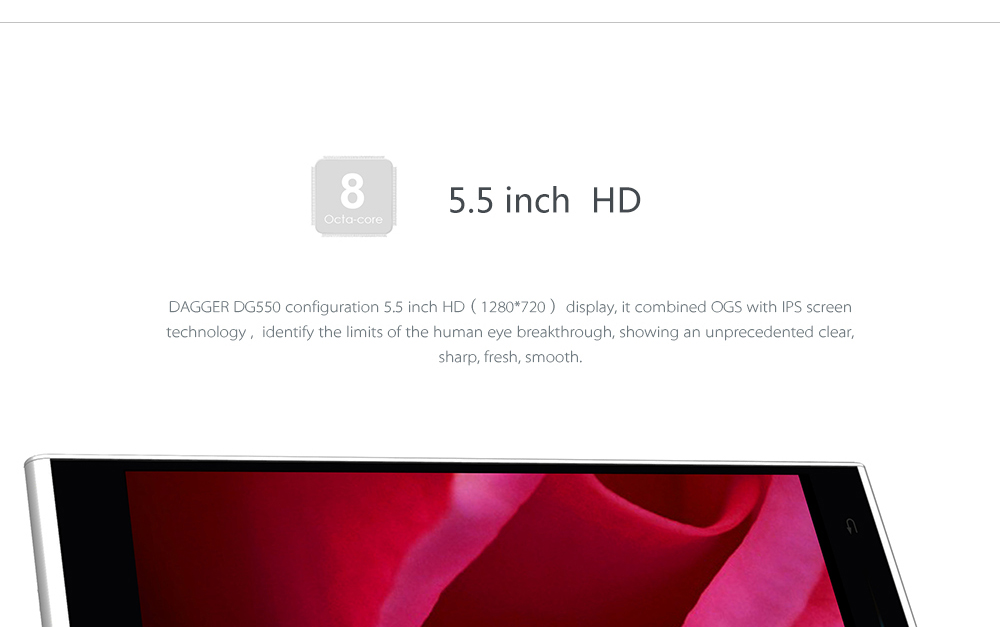
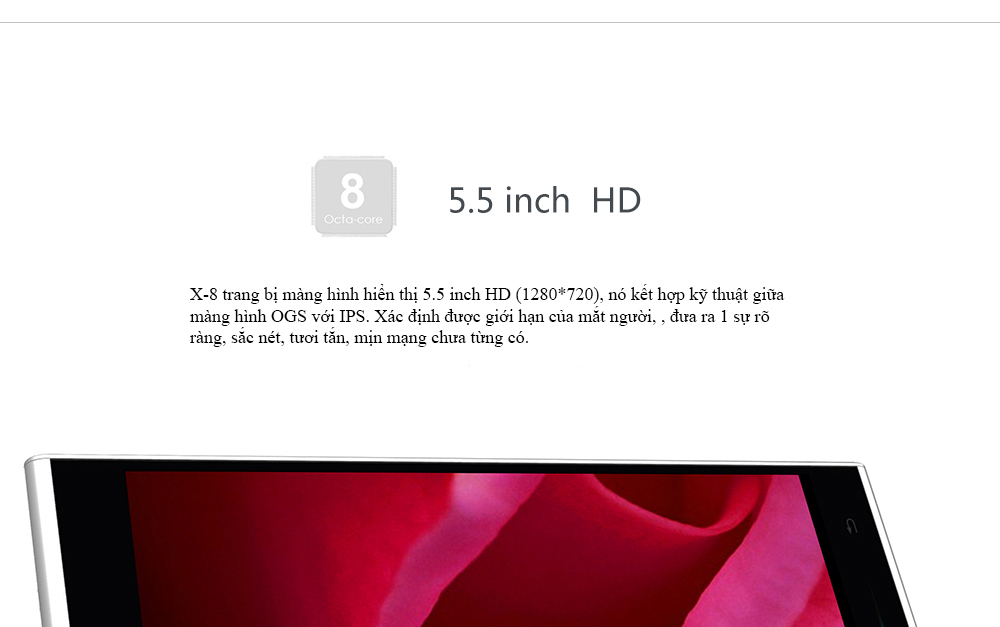
viet hoa 80%

Changed region(s): [[0.155, 0.4545, 0.868, 0.5758]]

diff --git a/webapp/templates/sites/x-6.html b/webapp/templates/sites/x-6.html
@@ -4,46 +4,45 @@
 {% endblock %}
 {% block hi %}
 	<p>
-	<img alt="" src="./static/img/280fe822-4afa-4f5a-ab1a-251eba9fea32.jpg">
-	<img alt="" src="./static/img/d16e9540-6d85-4a50-adcc-f96eccedf4d7.jpg">
-	<img alt="" src="./static/img/5954be80-390b-42e9-a64d-4b4eb4d18aff.jpg">
-	<img alt="" src="./static/img/2a13d172-20ad-47d0-857c-631bb90b47e6.jpg">
-	<img alt="" src="./static/img/974bc398-fb8b-49d4-8b4d-83abcf1c2c35.jpg">
-	<img alt="" src="./static/img/aee79528-e10a-4953-b235-69d40427eb7e.jpg">
-	<img alt="" src="./static/img/ec74b574-c646-4824-9a62-af840e1937ce.jpg">
-	<img alt="" src="./static/img/287c1a7a-a1db-4ec4-be26-412ee9f54404.jpg">
-	<img alt="" src="./static/img/dcdfce35-4963-4cf2-94b9-fb93614ed78d.jpg">
-	<img alt="" src="./static/img/788a8983-79b8-4634-9293-e50beb4e40b0.jpg">
-	<img alt="" src="./static/img/eebf74a5-a6e3-41c1-8921-4132c852208b.jpg">
-	<img alt="" src="./static/img/84490c3e-1697-494f-ac45-869c95747a21.jpg">
-	<img alt="" src="./static/img/965b4898-bea8-41ed-aee0-2bba4a27ab9a.jpg">
-	<img alt="" src="./static/img/b7bac26e-d10d-48d3-b4c1-3c772219f5be.jpg">
-	<img alt="" src="./static/img/b05f13e6-28af-4b78-97ee-8ef4bd86f6f9.jpg">
-	<img alt="" src="./static/img/949f2144-f826-4d00-8c77-5b62a2cbadc9.jpg">
-	<img alt="" src="./static/img/c69bb341-3a4a-4c6d-829d-8af59324d510.jpg">
-	<img alt="" src="./static/img/6a01ccc6-d0c2-475c-b8c9-4514fbb74913.jpg">
-	<img alt="" src="./static/img/89929754-cb52-4fad-8ab0-073c7c90a8f5.jpg">
-	<img alt="" src="./static/img/27f50c3b-7ae9-4b6d-b36c-b07810f4b5d1.jpg">
-	<img alt="" src="./static/img/dfb71405-674e-411f-9d05-0dbc357470f1.jpg">
-	<img alt="" src="./static/img/9cd6bf07-9418-46ca-b60f-b1f18094397f.jpg">
-	<img alt="" src="./static/img/5f7dec96-a833-45bc-a7cc-a5671db0e684.jpg">
-	<img alt="" src="./static/img/bb513dd4-b202-4785-aa1d-12e939b8113d.jpg">
-	<img alt="" src="./static/img/fdf28b8e-43e0-4be5-ae7e-36459cd4edfe.jpg">
-	<img alt="" src="./static/img/fd06a2fe-a57e-41ae-87ee-6edb53aae7d9.jpg">
-	<img alt="" src="./static/img/d393ed2a-5146-4187-bb6f-9e8d7abd6da0.jpg">
-	<img alt="" src="./static/img/260ab054-93ed-4cd8-ab59-9dd8a1a80a12.jpg">
-	<img alt="" src="./static/img/96d15606-fbba-4809-81c6-02e3bfea4395.jpg">
-	<img alt="" src="./static/img/998fe185-2df7-45fe-9cef-32234ab2af71.jpg">
-	<img alt="" src="./static/img/d2ec0e24-d0ef-4de5-a93b-27e906f6f0a7.jpg">
-	<img alt="" src="./static/img/d28e7e94-d2ee-4b93-97be-cf73d85f63aa.jpg">
-	<img alt="" src="./static/img/96ac228d-cb47-4d0b-a960-1a8529b7280e.jpg">
-	<img alt="" src="./static/img/609906d7-6355-40b7-af09-6bd813246cea.jpg">
-	<img alt="" src="./static/img/830d2a4c-b376-4110-9d42-e19d05364345.jpg">
-	<img alt="" src="./static/img/af3b7ae4-5c2a-4daf-9d9f-22a153bdaf10.jpg">
-	<img alt="" src="./static/img/6cb35111-532d-48c3-a8b2-25903eb0938b.jpg">
-	<img alt="" src="./static/img/4f1e9b1a-9242-4aec-8914-dd2c194ce7de.jpg">
-	<img alt="" src="./static/img/78432101-f8c0-4ff6-9497-014366a65b4a.jpg">
-	<img alt="" src="./static/img/a2a2970b-fc3b-4d8c-948e-e95fd56062a8.jpg">
-	<img alt="" src="./static/img/653b986b-fcec-45fb-a590-b85ad5426551.jpg">
+	<img alt="" src="./static/img/x6/1.jpg">
+	<img alt="" src="./static/img/x6/2.jpg">
+	<img alt="" src="./static/img/x6/3.jpg">
+	<img alt="" src="./static/img/x6/4.jpg">
+	<img alt="" src="./static/img/x6/5.jpg">
+	<img alt="" src="./static/img/x6/6.jpg">
+	<img alt="" src="./static/img/x6/7.jpg">
+	<img alt="" src="./static/img/x6/8.jpg">
+	<img alt="" src="./static/img/x6/9.jpg">
+	<img alt="" src="./static/img/x6/10.jpg">
+	<img alt="" src="./static/img/x6/11.jpg">
+	<img alt="" src="./static/img/x6/12.jpg">
+	<img alt="" src="./static/img/x6/13.jpg">
+	<img alt="" src="./static/img/x6/14.jpg">
+	<img alt="" src="./static/img/x6/15.jpg">
+	<img alt="" src="./static/img/x6/16.jpg">
+	<img alt="" src="./static/img/x6/17.jpg">
+	<img alt="" src="./static/img/x6/18.jpg">
+	<img alt="" src="./static/img/x6/19.jpg">
+	<img alt="" src="./static/img/x6/20.jpg">
+	<img alt="" src="./static/img/x6/21.jpg">
+	<img alt="" src="./static/img/x6/22.jpg">
+	<img alt="" src="./static/img/x6/23.jpg">
+	<img alt="" src="./static/img/x6/24.jpg">
+	<img alt="" src="./static/img/x6/25.jpg">
+	<img alt="" src="./static/img/x6/26.jpg">
+	<img alt="" src="./static/img/x6/27.jpg">
+	<img alt="" src="./static/img/x6/28.jpg">
+	<img alt="" src="./static/img/x6/29.jpg">
+	<img alt="" src="./static/img/x6/30.jpg">
+	<img alt="" src="./static/img/x6/31.jpg">
+	<img alt="" src="./static/img/x6/32.jpg">
+	<img alt="" src="./static/img/x6/33.jpg">
+	<img alt="" src="./static/img/x6/34.jpg">
+	<img alt="" src="./static/img/x6/35.jpg">
+	<img alt="" src="./static/img/x6/36.jpg">
+	<img alt="" src="./static/img/x6/37.jpg">
+	<img alt="" src="./static/img/x6/38.jpg">
+	<img alt="" src="./static/img/x6/39.jpg">
+	<img alt="" src="./static/img/x6/40.jpg">
 	</p>
 {% endblock %}

diff --git a/webapp/templates/sites/index.html b/webapp/templates/sites/index.html
@@ -5,72 +5,49 @@
 {% block slides %}
 	<ul class="example-orbit" data-orbit >
 		<li>
-			<img src="./static/img/8x/1.jpg" alt="slide 1" />
+			<a href="{{ url_for('home.x8') }}"><img src="./static/img/8x/1.jpg" alt="slide 1" /></a>
 			<div class="orbit-caption">
-				Slide 1
+				<a href="{{ url_for('home.x8') }}" style="color:white; font-size:25px;">X-8 Mobile Tot Nhat</a>
 			</div>
 		</li>
 		<li>
-			<img src="./static/img/8x/1.jpg" alt="slide 2" />
+			<a href="{{ url_for('home.x4') }}"><img src="./static/img/8x/1.jpg" alt="slide 1" /></a>
 			<div class="orbit-caption">
-				Slide 2
+				<a href="{{ url_for('home.x4') }}" style="color:white; font-size:25px;">X-4 Mobile Tot Nhat</a>
 			</div>
 		</li>
 		<li>
-			<img src="./static/img/8x/1.jpg" alt="slide 3" />
+			<a href="{{ url_for('home.x6') }}"><img src="./static/img/8x/1.jpg" alt="slide 1" /></a>
 			<div class="orbit-caption">
-				Slide 3
+				<a href="{{ url_for('home.x6') }}" style="color:white; font-size:25px;">X-6 Mobile Tot Nhat</a>
 			</div>
 		</li>
 	</ul>
 {% endblock %}
 {% block khung %}
+	<!--
 	<div class="row">
-		<div class="small-6 medium-3 large-3 columns">
-			<a href="" title="">
-				<img src="./static/img/220x300.png" alt="">
-			</a>
-		</div>
-		<div class="small-6 medium-3 large-3 columns">
-			<a href="" title="">
-				<img src="./static/img/220x300.png" alt="">
-			</a>
-		</div>
-		<div class="small-6 medium-3 large-3 columns">
-			<a href="" title="">
-				<img src="./static/img/220x300.png" alt="">
-			</a>
-		</div>
-		<div class="small-6 medium-3 large-3 columns">
-			<a href="" title="">
-				<img src="./static/img/220x300.png" alt="">
-			</a>
-		</div>
-	</div>
-	<div class="clearfix" style="height:15px; width:100%;"></div>
-	<div class="row">
-		<div class="small-6 medium-3 large-3 columns">
-			<a href="" title="">
-				<img src="./static/img/220x300.png" alt="">
-			</a>
-		</div>
-		<div class="small-6 medium-3 large-3 columns">
-			<a href="" title="">
-				<img src="./static/img/220x300.png" alt="">
-			</a>
-		</div>
-		<div class="small-6 medium-3 large-3 columns">
-			<a href="" title="">
-				<img src="./static/img/220x300.png" alt="">
-			</a>
-		</div>
-		<div class="small-6 medium-3 large-3 columns">
-			<a href="" title="">
-				<img src="./static/img/220x300.png" alt="">
-			</a>
-		</div>
+							<div class="small-6 medium-3 large-3 columns">
+													<a href="" title="">
+																			<img src="./static/img/220x300.png" alt="">
+													</a>
+							</div>
+							<div class="small-6 medium-3 large-3 columns">
+													<a href="" title="">
+																			<img src="./static/img/220x300.png" alt="">
+													</a>
+							</div>
+							<div class="small-6 medium-3 large-3 columns">
+													<a href="" title="">
+																			<img src="./static/img/220x300.png" alt="">
+													</a>
+							</div>
+							<div class="small-6 medium-3 large-3 columns">
+													<a href="" title="">
+																			<img src="./static/img/220x300.png" alt="">
+													</a>
+		</div>-->
 	</div>
 {% endblock %}
 {% block content %}
-
 {% endblock %}

diff --git a/webapp/templates/layout.html b/webapp/templates/layout.html
@@ -378,7 +378,6 @@
         <p>- Bao gồm cài đặt sửa chữa các lỗi phần mềm và các sự cố nhỏ (Không bao gồm thay thế các thiết bị)</p>
         <h5 style="color:blue;">III. CÁC LƯU Ý QUAN TRỌNG</h5>
         <p>- Sản phẩm của bạn là một thiết bị điện tử phức tạp ,có thể có màn hình độ chính xác cao ,ống kính máy ảnh và các bộ phận khác có thể bị hư hỏng ,trầy xước nếu không cẩn thận.Tất cả thông tin về bảo hành ,tính năng và đặc điểm của sản phẩm có thể thay đổi mà không cần thông báo trước.</p>
-
     </div>
     <div class="row" style="padding-top:15px;">
         <div class="row">

diff --git a/webapp/templates/sites/x-4.html b/webapp/templates/sites/x-4.html
@@ -13,7 +13,6 @@
 		<img alt="" src="./static/img/4x/7.jpg">
 		<img alt="" src="./static/img/4x/8.jpg">
 		<img alt="" src="./static/img/4x/9.jpg">
-		<img alt="" src="./static/img/4x/10.jpg">
 		<img alt="" src="./static/img/4x/11.jpg">
 		<img alt="" src="./static/img/4x/12.jpg">
 		<img alt="" src="./static/img/4x/13.jpg">
